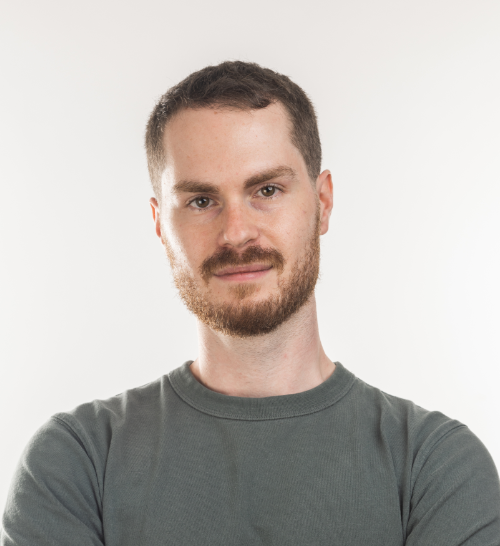
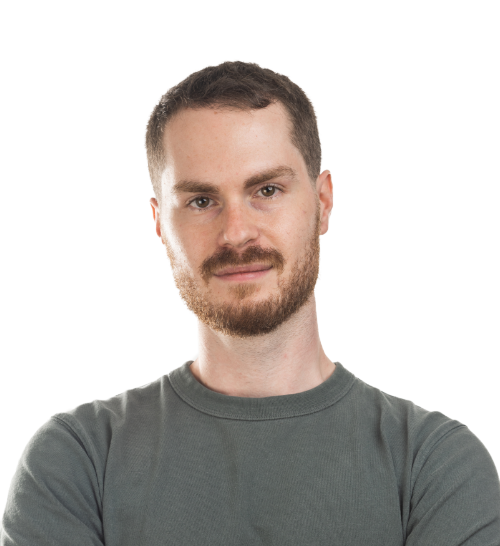
update changes

diff --git a/src/ui/components/About.jsx b/src/ui/components/About.jsx
@@ -4,7 +4,7 @@ import Brick from "../components/Brick";
 import sara from "../../assets/images/sara.png";
 import ignacio from "../../assets/images/ignacio.png";
 import juanlu from "../../assets/images/juanlu.png";
-import antonio from "../../assets/images/antonio1.png";
+import antonio from "../../assets/images/antonio2.png";
 // import pattern from "../../assets/images/pattern2.png";
 import TeamMember from "./TeamMember";
 import useScrollRevealEffect from "../../hooks/effects/useScrollRevealEffect";

diff --git a/src/ui/pages/HomePage.jsx b/src/ui/pages/HomePage.jsx
@@ -37,8 +37,8 @@ const HomePage = () => {
       <MapBlock />
       <Quote
         text="quote:text"
-        author="Elías Alonso Gómez-Cornejo"
-        position="quote:elias-position"
+        author="Daniel Seiler"
+        position="quote:daniel-position"
       />
       <Contact />
     </MainLayout>

diff --git a/src/assets/stylesheets/components/cubes.scss b/src/assets/stylesheets/components/cubes.scss
@@ -14,7 +14,7 @@ $cube-padding-v: $cube-padding * $v-to-h;
   &-s,
   &-w {
     transition: transform 0.9s cubic-bezier(0, 0, 0, 1.18);
-    transition-delay: 0.8s;
+    transition-delay: 0.6s;
     width: $cube-width;
     height: $cube-height;
     position: absolute;

diff --git a/src/assets/stylesheets/globals/texts.scss b/src/assets/stylesheets/globals/texts.scss
@@ -152,12 +152,12 @@ $typography: (
   quote-text: (
     format: (
       xxs: (
-        fz: 26px,
+        fz: 24px,
         lh: 1.2,
         fw: 500,
       ),
       md: (
-        fz: 40px,
+        fz: 28px,
       ),
     ),
   ),

diff --git a/src/assets/stylesheets/components/quote.scss b/src/assets/stylesheets/components/quote.scss
@@ -7,6 +7,8 @@
   }
 
   &-info {
+    flex: 1 1 auto;
+    padding-right: 40px;
   }
 
   &-text {
@@ -30,7 +32,7 @@
 
   &-graphic {
     margin: 0 auto;
-    width: 200px;
+    flex: 0 0 140px;
   }
 
   @include mq($until: md) {
